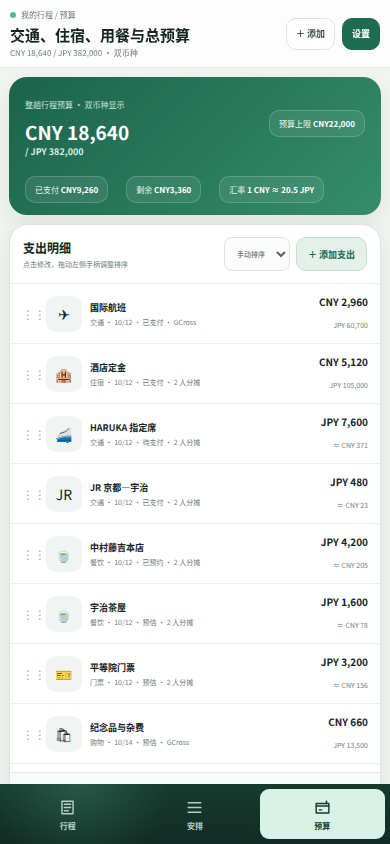
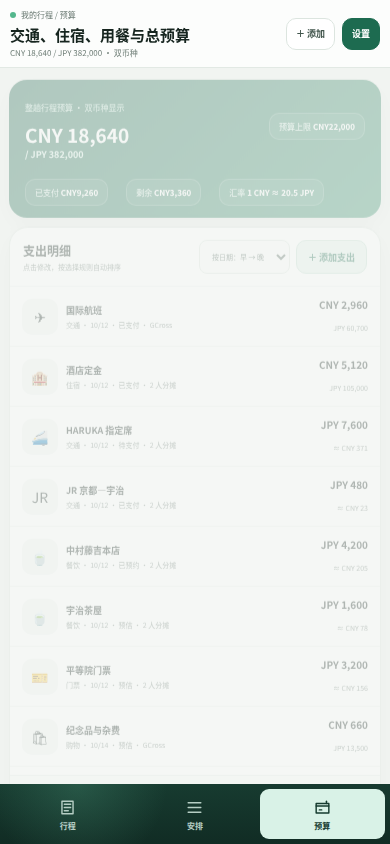
design: remove manual budget ordering

diff --git a/design/enikki-ui.html b/design/enikki-ui.html
@@ -31,7 +31,7 @@ body{min-width:1080px;min-height:720px;display:grid;place-items:center;padding:1
 @media(max-width:760px){
   body{min-width:0;min-height:100%;padding:0;background:#eff3f0}.app{width:100vw;height:100vh;min-height:0;grid-template-columns:1fr;grid-template-rows:minmax(0,1fr) calc(60px + env(safe-area-inset-bottom));border-radius:0;border:0}.rail{grid-row:2;flex-direction:row;padding:5px 5px calc(5px + env(safe-area-inset-bottom))}.brand,.trip-switch,.rail-foot,.nav-label{display:none}.nav{width:100%;display:grid;grid-template-columns:repeat(3,1fr);gap:2px}.nav button[data-view="plan"]{order:1}.nav [data-mobile-sheet]{order:2}.nav button[data-view="budget"]{order:3}.nav button{min-width:0;flex-direction:column;justify-content:center;gap:3px;padding:5px 2px;border-radius:9px}.nav svg{width:19px;height:19px}.nav b{font-size:8px;white-space:nowrap}.nav em,.nav-group,.subnav{display:none!important}.mobile-only{display:flex!important}.main{grid-row:1}.topbar{min-height:60px;padding:9px 10px;gap:7px}.title{min-width:0}.title h2{font-size:15px}.title p{max-width:190px;white-space:nowrap;overflow:hidden;text-overflow:ellipsis}.trip-stats{display:none}.top-actions{margin-left:auto}.top-actions .btn{display:none}.top-actions .mobile-add,.top-actions .mobile-settings{display:inline-flex!important;min-height:32px;padding:0 9px}.content{padding:9px;overflow:auto}.page{height:auto;min-height:100%}.trip-strip{height:auto;display:grid;grid-template-columns:1fr 1fr;gap:9px}.trip-strip .grow{grid-column:1/-1}.workbench,.arrange-body,.budget-body,.settings-layout{display:block;height:auto}.day-panel{display:none}.map-panel{height:380px;margin-bottom:9px}.map-toolbar{left:9px;right:9px;top:9px}.search{width:210px}.map-actions .chip:last-child{display:none}.timeline-panel{height:560px}.arrange-head{height:auto;display:block}.tabs{margin-bottom:9px;overflow:auto}.arrange-head .summary{display:none}.side-panel{margin-top:9px}.budget-strip{height:auto;flex-wrap:wrap;margin-bottom:9px}.budget-strip .total{font-size:19px}.budget-list{margin-top:9px}.meal-grid,.data-actions{grid-template-columns:1fr}.donut-wrap{grid-template-columns:100px 1fr}.donut{width:95px;height:95px}.donut:before{inset:18px}.settings-layout>div{margin-bottom:9px}.type-tabs{grid-template-columns:repeat(3,1fr)}.form-grid{grid-template-columns:1fr}.field.full{grid-column:auto}.photo-groups{grid-column:auto}.source-list{grid-template-columns:1fr}.expense-cats{grid-template-columns:repeat(2,1fr)}.pair{grid-template-columns:1fr 28px 1fr}.photo-slot{min-height:82px}.modal{width:100%;max-height:90vh;border-radius:22px 22px 0 0;align-self:end}.backdrop{place-items:end center;padding:0}.sheet-grid{grid-template-columns:1fr 1fr}.sheet-panel h3{margin:0 0 10px;font-size:13px}
 }
-.expense-ledger{display:flex;flex-direction:column;min-height:0}.ledger-head{display:flex;align-items:center;gap:10px;padding:12px 13px;border-bottom:1px solid #edf1ee}.ledger-head h3{margin:0;font-size:12px}.ledger-head p{margin:3px 0 0;color:var(--muted);font-size:7px}.ledger-head .actions{margin-left:auto;display:flex;gap:6px}.sort-select{padding:7px 8px;border:1px solid var(--line);border-radius:8px;color:#53675e;background:#fbfcfb;font-size:7px}.ledger-list{min-height:0;overflow:auto;padding-bottom:8px}.ledger-row{position:relative;display:grid;grid-template-columns:16px 36px minmax(0,1fr) auto;gap:8px;align-items:center;padding:10px 12px;border-bottom:1px solid #edf1ee;background:#fff;cursor:pointer}.ledger-row:hover{background:#f7fbf9}.ledger-row.dragging{opacity:.45}.drag-handle{color:#9caaa3;cursor:grab;font-size:12px}.ledger-row h4{margin:0;font-size:9px}.ledger-row p{margin:3px 0 0;color:var(--muted);font-size:7px}.ledger-row .amount{text-align:right}.ledger-row .amount b{display:block;font-size:10px}.ledger-row .amount small{color:var(--muted);font-size:7px}.ledger-total{display:flex;justify-content:space-between;padding:10px 13px;border-top:1px solid #e5ece8;background:#f8fbf9;font-size:9px;font-weight:800}.budget-summary{min-height:0;overflow:auto}.category-list{padding:0 13px 13px}.category-row{display:grid;grid-template-columns:32px minmax(0,1fr) auto;gap:8px;align-items:center;padding:8px 0}.category-icon{width:30px;height:30px;display:grid;place-items:center;border-radius:9px;background:#f0f4f2;font-size:12px}.category-row h4{margin:0;font-size:8px}.category-row small{color:var(--muted);font-size:7px}.category-bar{grid-column:2/4;height:4px;border-radius:99px;background:#e9efeb;overflow:hidden}.category-bar span{display:block;height:100%;border-radius:inherit;background:var(--green)}
+.expense-ledger{display:flex;flex-direction:column;min-height:0}.ledger-head{display:flex;align-items:center;gap:10px;padding:12px 13px;border-bottom:1px solid #edf1ee}.ledger-head h3{margin:0;font-size:12px}.ledger-head p{margin:3px 0 0;color:var(--muted);font-size:7px}.ledger-head .actions{margin-left:auto;display:flex;gap:6px}.sort-select{padding:7px 8px;border:1px solid var(--line);border-radius:8px;color:#53675e;background:#fbfcfb;font-size:7px}.ledger-list{min-height:0;overflow:auto;padding-bottom:8px}.ledger-row{position:relative;display:grid;grid-template-columns:36px minmax(0,1fr) auto;gap:8px;align-items:center;padding:10px 12px;border-bottom:1px solid #edf1ee;background:#fff;cursor:pointer}.ledger-row:hover{background:#f7fbf9}.ledger-row h4{margin:0;font-size:9px}.ledger-row p{margin:3px 0 0;color:var(--muted);font-size:7px}.ledger-row .amount{text-align:right}.ledger-row .amount b{display:block;font-size:10px}.ledger-row .amount small{color:var(--muted);font-size:7px}.ledger-total{display:flex;justify-content:space-between;padding:10px 13px;border-top:1px solid #e5ece8;background:#f8fbf9;font-size:9px;font-weight:800}.budget-summary{min-height:0;overflow:auto}.category-list{padding:0 13px 13px}.category-row{display:grid;grid-template-columns:32px minmax(0,1fr) auto;gap:8px;align-items:center;padding:8px 0}.category-icon{width:30px;height:30px;display:grid;place-items:center;border-radius:9px;background:#f0f4f2;font-size:12px}.category-row h4{margin:0;font-size:8px}.category-row small{color:var(--muted);font-size:7px}.category-bar{grid-column:2/4;height:4px;border-radius:99px;background:#e9efeb;overflow:hidden}.category-bar span{display:block;height:100%;border-radius:inherit;background:var(--green)}
 
 </style>
 </head>
@@ -159,16 +159,16 @@ body{min-width:1080px;min-height:720px;display:grid;place-items:center;padding:1
         <div class="budget-strip"><div><small>整趟行程预算 · 双币种显示</small><div class="total">CNY 18,640 <span class="pair">/ JPY 382,000</span></div></div><div class="spacer"></div><span class="stat">预算上限 <b>CNY22,000</b></span><span class="stat">已支付 <b>CNY9,260</b></span><span class="stat">剩余 <b>CNY3,360</b></span><span class="stat">汇率 <b>1 CNY ≈ 20.5 JPY</b></span></div>
         <div class="budget-body">
           <section class="panel expense-ledger">
-            <div class="ledger-head"><div><h3>支出明细</h3><p>点击修改，拖动左侧手柄调整排序</p></div><div class="actions"><select class="sort-select"><option>手动排序</option><option>按日期</option><option>按金额</option><option>按分类</option></select><button class="btn soft" onclick="openExpenseEditor()">＋ 添加支出</button></div></div>
+            <div class="ledger-head"><div><h3>支出明细</h3><p>点击修改，按选择规则自动排序</p></div><div class="actions"><select class="sort-select"><option>按日期：早 → 晚</option><option>按日期：晚 → 早</option><option>按金额：高 → 低</option><option>按分类</option></select><button class="btn soft" onclick="openExpenseEditor()">＋ 添加支出</button></div></div>
             <div class="ledger-list" id="expenseList">
-              <div class="ledger-row" draggable="true" onclick="openExpenseEditor('国际航班')"><span class="drag-handle">⋮⋮</span><span class="budget-icon">✈</span><div><h4>国际航班</h4><p>交通 · 10/12 · 已支付 · GCross</p></div><div class="amount"><b>CNY 2,960</b><small>JPY 60,700</small></div></div>
-              <div class="ledger-row" draggable="true" onclick="openExpenseEditor('酒店定金')"><span class="drag-handle">⋮⋮</span><span class="budget-icon">🏨</span><div><h4>酒店定金</h4><p>住宿 · 10/12 · 已支付 · 2 人分摊</p></div><div class="amount"><b>CNY 5,120</b><small>JPY 105,000</small></div></div>
-              <div class="ledger-row" draggable="true" onclick="openExpenseEditor('HARUKA 指定席')"><span class="drag-handle">⋮⋮</span><span class="budget-icon">🚄</span><div><h4>HARUKA 指定席</h4><p>交通 · 10/12 · 待支付 · 2 人分摊</p></div><div class="amount"><b>JPY 7,600</b><small>≈ CNY 371</small></div></div>
-              <div class="ledger-row" draggable="true" onclick="openExpenseEditor('JR 京都—宇治')"><span class="drag-handle">⋮⋮</span><span class="budget-icon">JR</span><div><h4>JR 京都—宇治</h4><p>交通 · 10/12 · 已支付 · 2 人分摊</p></div><div class="amount"><b>JPY 480</b><small>≈ CNY 23</small></div></div>
-              <div class="ledger-row" draggable="true" onclick="openExpenseEditor('中村藤吉本店')"><span class="drag-handle">⋮⋮</span><span class="budget-icon">🍵</span><div><h4>中村藤吉本店</h4><p>餐饮 · 10/12 · 已预约 · 2 人分摊</p></div><div class="amount"><b>JPY 4,200</b><small>≈ CNY 205</small></div></div>
-              <div class="ledger-row" draggable="true" onclick="openExpenseEditor('宇治茶屋')"><span class="drag-handle">⋮⋮</span><span class="budget-icon">🍵</span><div><h4>宇治茶屋</h4><p>餐饮 · 10/12 · 预估 · 2 人分摊</p></div><div class="amount"><b>JPY 1,600</b><small>≈ CNY 78</small></div></div>
-              <div class="ledger-row" draggable="true" onclick="openExpenseEditor('平等院门票')"><span class="drag-handle">⋮⋮</span><span class="budget-icon">🎫</span><div><h4>平等院门票</h4><p>门票 · 10/12 · 预估 · 2 人分摊</p></div><div class="amount"><b>JPY 3,200</b><small>≈ CNY 156</small></div></div>
-              <div class="ledger-row" draggable="true" onclick="openExpenseEditor('纪念品与杂费')"><span class="drag-handle">⋮⋮</span><span class="budget-icon">🛍</span><div><h4>纪念品与杂费</h4><p>购物 · 10/14 · 预估 · GCross</p></div><div class="amount"><b>CNY 660</b><small>JPY 13,500</small></div></div>
+              <div class="ledger-row" onclick="openExpenseEditor('国际航班')"><span class="budget-icon">✈</span><div><h4>国际航班</h4><p>交通 · 10/12 · 已支付 · GCross</p></div><div class="amount"><b>CNY 2,960</b><small>JPY 60,700</small></div></div>
+              <div class="ledger-row" onclick="openExpenseEditor('酒店定金')"><span class="budget-icon">🏨</span><div><h4>酒店定金</h4><p>住宿 · 10/12 · 已支付 · 2 人分摊</p></div><div class="amount"><b>CNY 5,120</b><small>JPY 105,000</small></div></div>
+              <div class="ledger-row" onclick="openExpenseEditor('HARUKA 指定席')"><span class="budget-icon">🚄</span><div><h4>HARUKA 指定席</h4><p>交通 · 10/12 · 待支付 · 2 人分摊</p></div><div class="amount"><b>JPY 7,600</b><small>≈ CNY 371</small></div></div>
+              <div class="ledger-row" onclick="openExpenseEditor('JR 京都—宇治')"><span class="budget-icon">JR</span><div><h4>JR 京都—宇治</h4><p>交通 · 10/12 · 已支付 · 2 人分摊</p></div><div class="amount"><b>JPY 480</b><small>≈ CNY 23</small></div></div>
+              <div class="ledger-row" onclick="openExpenseEditor('中村藤吉本店')"><span class="budget-icon">🍵</span><div><h4>中村藤吉本店</h4><p>餐饮 · 10/12 · 已预约 · 2 人分摊</p></div><div class="amount"><b>JPY 4,200</b><small>≈ CNY 205</small></div></div>
+              <div class="ledger-row" onclick="openExpenseEditor('宇治茶屋')"><span class="budget-icon">🍵</span><div><h4>宇治茶屋</h4><p>餐饮 · 10/12 · 预估 · 2 人分摊</p></div><div class="amount"><b>JPY 1,600</b><small>≈ CNY 78</small></div></div>
+              <div class="ledger-row" onclick="openExpenseEditor('平等院门票')"><span class="budget-icon">🎫</span><div><h4>平等院门票</h4><p>门票 · 10/12 · 预估 · 2 人分摊</p></div><div class="amount"><b>JPY 3,200</b><small>≈ CNY 156</small></div></div>
+              <div class="ledger-row" onclick="openExpenseEditor('纪念品与杂费')"><span class="budget-icon">🛍</span><div><h4>纪念品与杂费</h4><p>购物 · 10/14 · 预估 · GCross</p></div><div class="amount"><b>CNY 660</b><small>JPY 13,500</small></div></div>
             </div>
             <div class="ledger-total"><span>共 8 笔支出</span><span>CNY 18,640 / JPY 382,000</span></div>
           </section>
@@ -283,15 +283,6 @@ function updateExpenseConversion(){const a=Number(document.getElementById('expen
 function saveExpenseEditor(){toast('支出已保存，预算汇总已更新');closeExpenseEditor();}
 document.querySelectorAll('.expense-cat').forEach(b=>b.addEventListener('click',()=>{document.querySelectorAll('.expense-cat').forEach(x=>x.classList.remove('active'));b.classList.add('active');}));
 document.addEventListener('keydown',e=>{if(e.key==='Escape'){closePlanEditor();closeExpenseEditor();closePhotoSource();closeMobileSheet();}});
-let draggedExpense=null;let expenseDragging=false;
-const expenseList=document.getElementById('expenseList');
-if(expenseList){
-  expenseList.addEventListener('dragstart',e=>{const row=e.target.closest('.ledger-row');if(!row)return;draggedExpense=row;expenseDragging=true;row.classList.add('dragging');});
-  expenseList.addEventListener('dragend',()=>{draggedExpense?.classList.remove('dragging');setTimeout(()=>{expenseDragging=false;draggedExpense=null;},0);});
-  expenseList.addEventListener('dragover',e=>{e.preventDefault();if(!draggedExpense)return;const target=e.target.closest('.ledger-row');if(!target||target===draggedExpense)return;const rect=target.getBoundingClientRect();const after=e.clientY>rect.top+rect.height/2;expenseList.insertBefore(draggedExpense,after?target.nextSibling:target);});
-  expenseList.addEventListener('drop',e=>{e.preventDefault();toast('支出顺序已更新');});
-  expenseList.addEventListener('click',e=>{if(expenseDragging){e.preventDefault();e.stopPropagation();}},true);
-}
 document.querySelector('.sort-select')?.addEventListener('change',e=>toast(`已切换为${e.target.value}`));
 let timer;function toast(text){const t=document.getElementById('toast');t.textContent=text;t.classList.add('show');clearTimeout(timer);timer=setTimeout(()=>t.classList.remove('show'),2200);}
 const params=new URLSearchParams(location.search);const initialView=params.get('view')||'plan';if(params.get('tab'))activeArrangeTab=params.get('tab');activateView(initialView,false);if(params.get('editor')==='add')openPlanEditor(params.get('type')||'spot');if(params.get('photoSource'))setTimeout(()=>{const side=params.get('photoSide')==='actual'?'actual':'reference';document.querySelector(`.photo-slot[data-photo-side="${side}"]`)?.click();},0);if(params.get('expense')==='add')openExpenseEditor();if(params.get('sheet')==='arrange')document.getElementById('mobileSheet').classList.add('open');

diff --git a/docs/IMPLEMENTATION_PLAN.md b/docs/IMPLEMENTATION_PLAN.md
@@ -174,7 +174,7 @@ lib/
 | `LodgingOption` | id、区域、日期、价格区间、预订链接 | 只保存规划信息和跳转地址 |
 | `MealPlan` | id、日期、餐次、时间窗、地点、预约状态 | 行程中的一次用餐安排 |
 | `MealOption` | id、餐厅、坐标、营业时间、人均、预约链接 | 可比较的餐厅候选 |
-| `BudgetItem` | id、类别、金额、币种、预估/实际、排序 | 交通、住宿、餐饮、门票等预算与支出 |
+| `BudgetItem` | id、类别、金额、币种、预估/实际 | 交通、住宿、餐饮、门票等预算与支出 |
 | `VisitRecord` | id、点位、到达时间、状态、备注 | 打卡与现场反馈 |
 | `CheckInRecord` | id、点位、照片、时间、位置、备注 | 一次拍照打卡记录 |
 | `PhotoComparisonGroup` | 参考图、实拍图、对比模式、顺序 | 一组图片对比记录 |

diff --git a/docs/TRIP_PLANNING.md b/docs/TRIP_PLANNING.md
@@ -71,7 +71,7 @@ note        纯备注
 | `MealPlan` | 日期、餐次、时间窗、地点、用餐时长 | 行程中的一次用餐安排 |
 | `MealOption` | 餐厅、坐标、营业时间、人均、预约链接 | 可比较的具体餐厅候选 |
 | `DietaryPreference` | 素食、清真、过敏、忌口、儿童餐 | 纳入餐厅筛选和提醒 |
-| `BudgetItem` | 类别、金额、币种、预估/实际、支付人、排序 | 行程预算与支出 |
+| `BudgetItem` | 类别、金额、币种、预估/实际、支付人 | 行程预算与支出 |
 | `BookingLink` | 平台、对象、深链接、来源、更新时间 | 只跳转，不保存账号和支付信息 |
 
 金额继续使用最小货币单位整数加 ISO 4217 币种，禁止使用浮点数。

diff --git a/README.md b/README.md
@@ -103,7 +103,7 @@ ENikki 会覆盖交通和住宿的**规划环节**，但不直接承担交易环
 - 支持汇率来源、生效时间、固定费用和按人数分摊。
 - 在行程规划阶段提前显示预算占用比例，并提示超支风险。
 - 支出明细作为预算页主视图，完整列出交通、住宿、餐饮、门票和其他支出。
-- 支持点击支出记录编辑，并拖动手柄调整排序。
+- 支持点击支出记录编辑，并按照日期、金额或分类自动排序。
 - 支持添加和编辑支出，记录原始币种、双币种换算、日期、付款人、分摊和收据。
 - 在旅途中快速补记支出，在结束后生成分类汇总。
 

diff --git a/docs/TRIP_PLANNING_ARCHITECTURE.md b/docs/TRIP_PLANNING_ARCHITECTURE.md
@@ -515,7 +515,6 @@ final class BudgetItem {
   final String? linkedItemId;
   final Set<String> travelerIds;
   final PaymentStatus paymentStatus;
-  final int sortOrder;
   final String? note;
 }
 ```
@@ -546,8 +545,7 @@ BudgetSummary calculateBudget(
 );
 ```
 
-支出明细使用显式 `sortOrder` 保存顺序。应用层提供 `ReorderBudgetItems`
-命令，支持手动排序，也可以派生按日期、金额或分类排序的只读视图。
+支出明细不保存手工排序，列表顺序由日期、金额或分类等排序规则动态派生。
 
 导出时不只保存总额，还保存形成总额的汇率、分摊方式和预算项快照。
 

diff --git a/design/README.md b/design/README.md
@@ -70,7 +70,7 @@ enikki-ui.html?view=budget&expense=add
 
 ### 预算
 
-支出明细位于主区域并完整列出全部支出，支持点击编辑和拖动排序；分类预算与
+支出明细位于主区域并完整列出全部支出，支持点击编辑和自动排序；分类预算与
 占比图表位于右侧。
 
 ![桌面预算](preview-budget.png)
